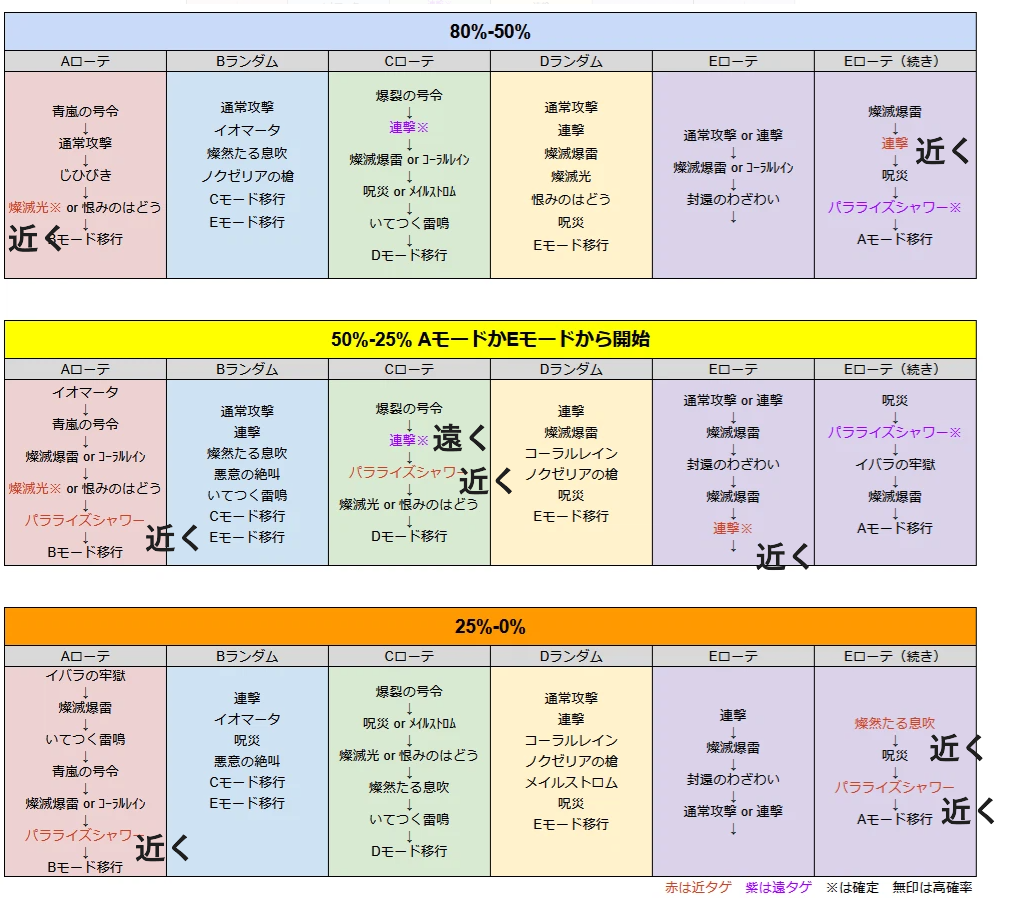
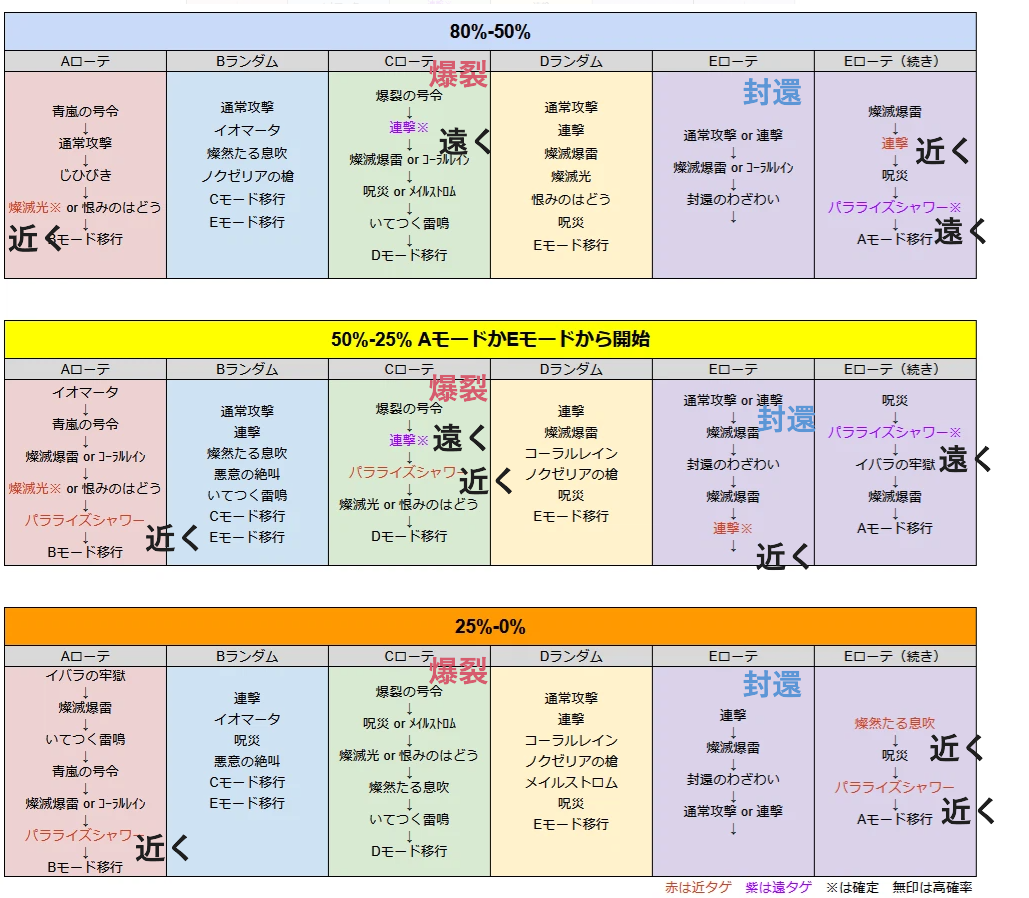
のくぜ追記

diff --git a/nokuze.html b/nokuze.html
@@ -199,6 +199,10 @@
                                     </div>
                                     <br>
                                     <br>
+                                    <br>
+                                    <a href="https://dqwebsimulator1.onrender.com/Calc">連撃ダメージシュミレーター(パラディンのHP、アミュレットの耐えを調べる)</a>
+                                    <br>
+                                    <br>
 
                                     <img src="images/togabito/nokuze2_all.png" alt="" data-position="top center" width="500"/>
                                     <h3><b>・100%~80% </b></h3>
